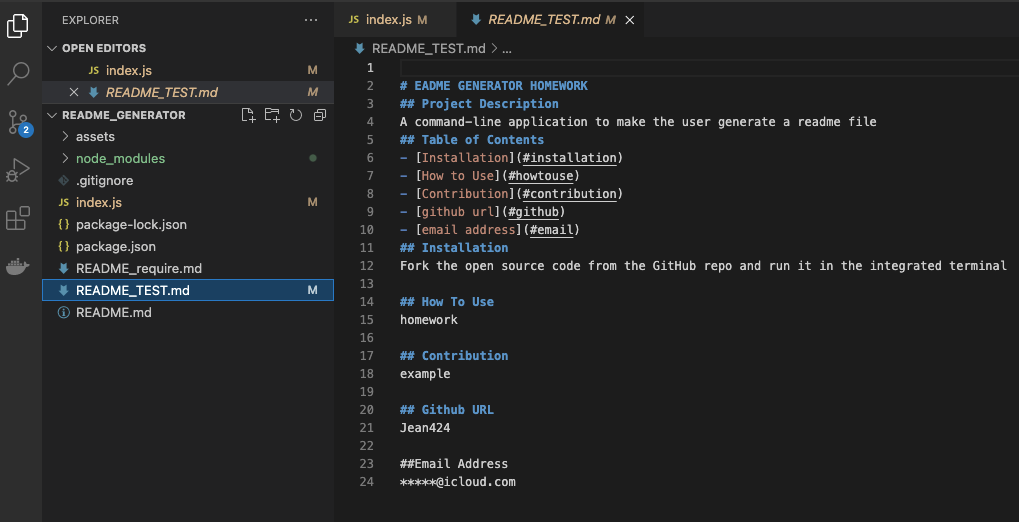
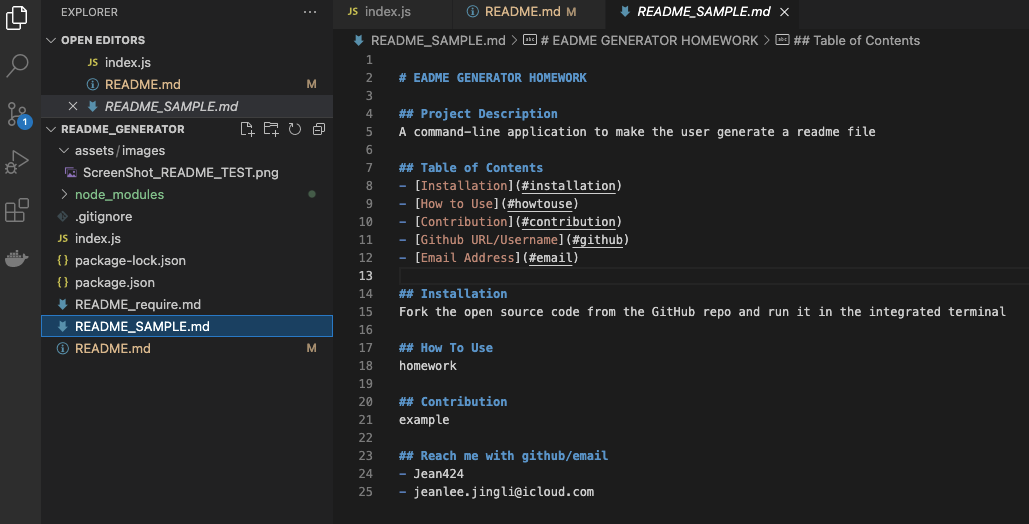
modify something

diff --git a/README.md b/README.md
@@ -8,8 +8,8 @@ This is a command-line application to make the user get prompted for the require
 - [Installation](#installation)
 - [How to Use](#howtouse)
 - [Contribution](#contribution)
-- [github url](#github)
-- [email address](#email)
+- [Github URL/Username](#github)
+- [Email Address](#email)
 
 ## Installation
 This package uses Node and you will need to install Node in order to use this application. Just type "npm i" in the terminal in this project's file location.
@@ -20,14 +20,12 @@ To start you will need to navigate to the ReadMe Generator in your terminal usin
 ## Contribution
 - Application uses Node
 
-## Reach me with github
+## Reach me with github/email
 - Jean424
-
-## Reach me with email
 - jeanlee.jingli@icloud.com
 
-## Live link
+## Link
 
-- link to video of the produce of readme generate: https://watch.screencastify.com/v/95f4tlZuk0WoznOqK9w3
+- link to video of the walkthrough readme generate: https://watch.screencastify.com/v/E0DGn0A1XmWkf8rqdmrB
 - photo of the prompts in the terminal:
 ![Screenshot of readme generater](./assets/images/ScreenShot_README_TEST.png)
